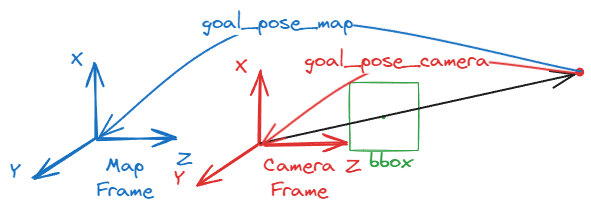
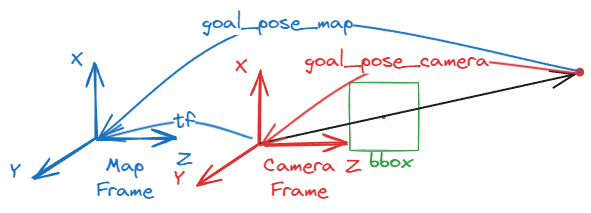
Update README.md: update camera calibration

Changed region(s): [[0.1523, 0.507, 0.3959, 0.6761], [0.3959, 0.6197, 0.4264, 0.6479]]

diff --git a/README.md b/README.md
@@ -73,6 +73,55 @@ After detecting the object, we need to calculate the distance between the robot 
 
 ![Camera Calibration Policy](assets/object_detection/camera_calibration.png)
 
+First, we obtain the coordinates $(u, v)$ of the target in the image, which are the center coordinates of the bounding box:
+
+$$
+u = \text{bbox.x} + \frac{\text{bbox.width}}{2}
+$$
+
+$$
+v = \text{bbox.y} + \frac{\text{bbox.height}}{2}
+$$
+
+Next, we retrieve the depth value $Z$ at that point by accessing the corresponding pixel in the depth image:
+
+$$
+Z = \text{cv\_depth\_image\_.at<float>}(v, u)
+$$
+
+Then, we use the camera intrinsic matrix $K$ to convert the image coordinates $(u, v)$ and depth value $Z$ to the 3D point $(X, Y, Z)$ in the camera coordinate system. The camera intrinsic matrix $K$ is defined as follows:
+
+$$
+\mathbf{K} = \begin{bmatrix}
+f_x & 0 & c_x \\
+0 & f_y & c_y \\
+0 & 0 & 1
+\end{bmatrix}
+$$
+
+Using the camera intrinsic matrix, we can calculate the 3D point $(X, Y, Z)$ in the camera coordinate system using the following formulas:
+
+$$
+X = \frac{(u - c_x) \cdot Z}{f_x}
+$$
+
+$$
+Y = \frac{(v - c_y) \cdot Z}{f_y}
+$$
+
+In the code, this step corresponds to the following part:
+
+```cpp
+cv::Point3f target_point;
+target_point.x = (bbox.x + bbox.width / 2 - camera_matrix_.at<double>(0, 2)) * depth / camera_matrix_.at<double>(0, 0);
+target_point.y = (bbox.y + bbox.height / 2 - camera_matrix_.at<double>(1, 2)) * depth / camera_matrix_.at<double>(1, 1);
+target_point.z = depth;
+```
+
+Finally, we use the tf library to transform the 3D point $(X, Y, Z)$ from the camera coordinate system to the map coordinate system and publish it as the target location.
+
+Through these steps, we utilize the camera calibration parameters to convert the target location in the image to a 3D point in the camera coordinate system and further transform it to the target location in the map coordinate system, enabling the robot to navigate to that location.
+
 ### Localization
 
 The localization process is performed using the `AMCL` (Adaptive Monte Carlo Localization) method. The `AMCL` package is used to localize the robot in the map. The `AMCL` node is launched in the `amcl.launch` file, and the parameters of the `AMCL` package can be tuned in the `jackal_navigation/params/amcl_params.yaml` file.
@@ -139,17 +188,17 @@ ME5413_Final_Project_Group10
 │   │   ├── include -> Header files
 │   │   │   ├── me5413_world -> Header files for the main implementations
 │   │   ├── launch -> Launch files
-│   │   │   ├── amcl.launch
-│   │   │   ├── fast_lio.launch
-│   │   │   ├── find_box.launch
+│   │   │   ├── amcl.launch -> Launch the AMCL node
+│   │   │   ├── fast_lio.launch -> Launch the Fast-Lio mapping
+│   │   │   ├── find_box.launch -> Launch the find_object_2d package
 │   │   │   ├── include
 │   │   │   │   └── spawn_jackal.launch
-│   │   │   ├── main.launch
-│   │   │   ├── manual.launch
-│   │   │   ├── mapping.launch
-│   │   │   ├── move_base.launch
-│   │   │   ├── navigation.launch
-│   │   │   └── world.launch  
+│   │   │   ├── main.launch -> Main launch file
+│   │   │   ├── manual.launch -> Manually control the robot in the Gazebo world
+│   │   │   ├── mapping.launch -> Launch the mapping process
+│   │   │   ├── move_base.launch -> Launch the global and local planner
+│   │   │   ├── navigation.launch -> Launch the navigation process
+│   │   │   └── world.launch -> Launch the Gazebo world
 │   │   ├── src -> C++ scripts
 │   │   │   ├── object_spawner_gz_plugin.cpp -> Gazebo plugin for spawning the object (boxes and cones)
 │   │   │   ├── goal_publisher_node.cpp -> Publish the goal location (when goal is not box)
